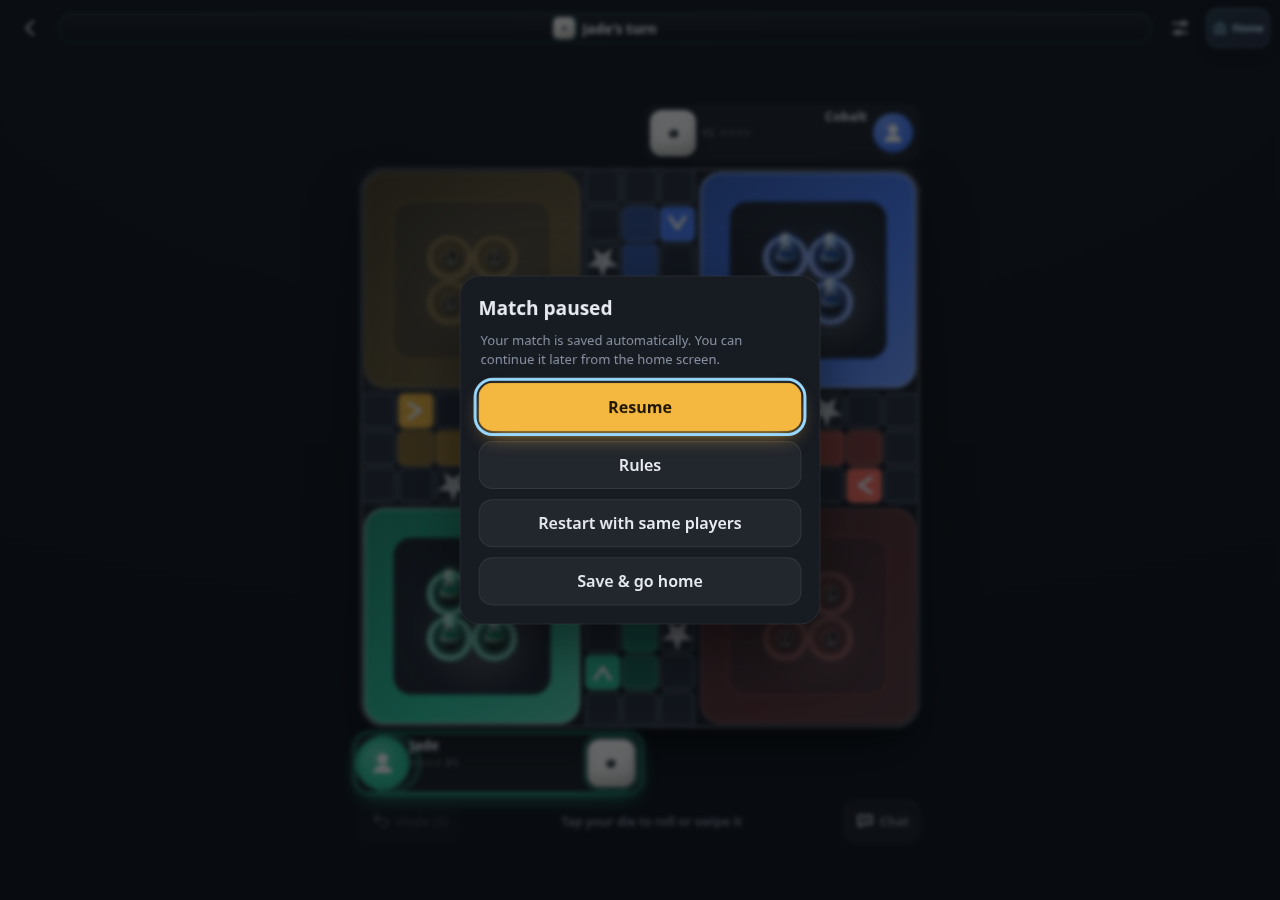
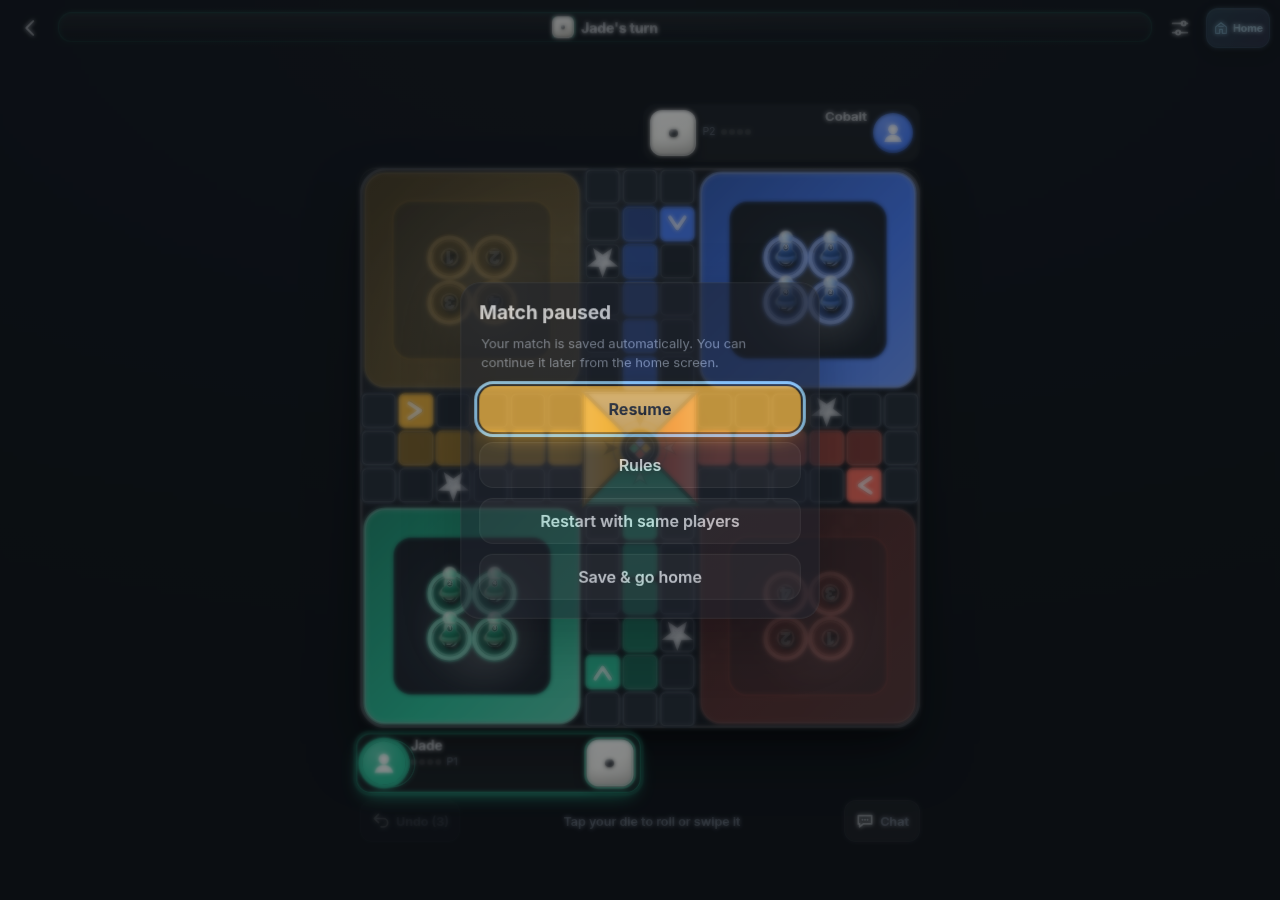
v1.8.7: rebuild #106 Android Back; skins.browser expects Diamond ON + balance-relative coins; Chrome fallback in remaining tests

Changed region(s): [[0.2812, 0.1244, 0.7188, 0.8711], [0.5938, 0.6533, 0.6562, 0.7156], [0.4375, 0.0, 0.4688, 0.0311]]

diff --git a/test/skins.browser.test.js b/test/skins.browser.test.js
@@ -49,7 +49,7 @@ function ok(condition, message) { assert.ok(condition, message); checks++; conso
     await seedSave('crossfour.save.v1', v1);
     let migrated = await page.evaluate(() => ({ status: window.__cf.loadStatus, save: window.__cf.save }));
     ok(migrated.status === 'migrated-v1' && migrated.save.coins >= 77 /* +level reward from #122 */ && migrated.save.board === 'linen' && migrated.save.dice === 'brass', 'v1 save migration retains coins and selected legacy skins');
-    ok(migrated.save.stats.streak === 0 && migrated.save.flags.diamondCollection === false && migrated.save.owned.boards.includes('linen') && migrated.save.owned.dice.includes('brass'), 'v1 gains safe streak/event defaults without losing owned skins');
+    ok(migrated.save.stats.streak === 0 && migrated.save.flags.diamondCollection === true /* Diamond event ON for everyone (John, v1.8.7) */ && migrated.save.owned.boards.includes('linen') && migrated.save.owned.dice.includes('brass'), 'v1 gains safe streak/event defaults without losing owned skins');
 
     const legacyV2 = await page.evaluate(() => {
       const s = JSON.parse(JSON.stringify(window.__cf.save));
@@ -59,7 +59,7 @@ function ok(condition, message) { assert.ok(condition, message); checks++; conso
     await seedSave('crossfour.save.v2', legacyV2);
     migrated = await page.evaluate(() => ({ status: window.__cf.loadStatus, save: window.__cf.save }));
     ok(migrated.status === 'migrated-v2' && migrated.save.coins === 321 && migrated.save.board === 'walnut' && migrated.save.dice === 'frost', 'v2 save migration retains progression and selected legacy skins');
-    ok(migrated.save.stats.streak === 0 && migrated.save.flags.diamondCollection === false, 'v2 receives backward-compatible achievement and event defaults');
+    ok(migrated.save.stats.streak === 0 && migrated.save.flags.diamondCollection === true /* Diamond event ON for everyone (John, v1.8.7) */, 'v2 receives backward-compatible achievement and event defaults');
 
     const legacyV3 = await page.evaluate(() => {
       const s = JSON.parse(JSON.stringify(window.__cf.save));
@@ -74,12 +74,12 @@ function ok(condition, message) { assert.ok(condition, message); checks++; conso
     await reload();
     migrated = await page.evaluate(() => ({ status: window.__cf.loadStatus, save: window.__cf.save }));
     ok(migrated.status === 'loaded' && migrated.save.coins === 432 && migrated.save.board === 'aurora' && migrated.save.dice === 'ember', 'old v3 primary snapshot is accepted and keeps its selected IDs');
-    ok(migrated.save.stats.streak === 0 && migrated.save.flags.diamondCollection === false, 'old v3 primary/checkpoint are normalized without schema loss');
+    ok(migrated.save.stats.streak === 0 && migrated.save.flags.diamondCollection === true /* Diamond event ON for everyone (John, v1.8.7) */, 'old v3 primary/checkpoint are normalized without schema loss');
 
     // Start shop tests from a clean local-only profile.
     await page.evaluate(() => { localStorage.clear(); localStorage.setItem('crossfour.tutorial.v1', '1'); }); await reload();
     await page.click('#btn-skins'); await page.waitForSelector('#skins:not(.hidden) #skin-grid [data-id="graphite"]');
-    ok(await page.$$eval('#skin-grid [data-id]', nodes => nodes.length) === 20, 'real Boards tab renders all 20 boards');
+    ok(await page.$$eval('#skin-grid [data-id]', nodes => nodes.length) === await page.evaluate(() => window.SKINS.BOARDS.length), 'real Boards tab renders every board');
     ok(await page.evaluate(() => {
       const box = document.getElementById('skins').querySelector('.panel');
       const grid = document.getElementById('skin-grid');
@@ -91,7 +91,7 @@ function ok(condition, message) { assert.ok(condition, message); checks++; conso
     const galaxyCard = await page.$('[data-id="galaxy"]');
     await galaxyCard.screenshot({ path: path.join(OUT, 'skin-preview-galaxy.png') });
     ok(await page.$eval('[data-id="galaxy"] canvas', canvas => canvas.width > 0 && canvas.getAttribute('aria-label') === 'Galaxy board preview'), 'Galaxy board preview draws the actual board renderer');
-    ok(await page.$eval('[data-id="diamond"] button', button => button.disabled && /future event/i.test(button.textContent)), 'Diamond board remains locked without an event flag');
+    ok(await page.$eval('[data-id="diamond"] button', button => !/future event/i.test(button.textContent)), 'Diamond board is available (Diamond event ON for everyone)');
     ok(await page.$eval('[data-id="champion"] small', note => /50 lifetime wins/i.test(note.textContent)), 'Champion card shows its real 50-win requirement');
     ok(await page.$eval('[data-id="streak-master"] small', note => /10 consecutive wins/i.test(note.textContent)), 'Streak Master card shows its real streak requirement');
 
@@ -107,23 +107,24 @@ function ok(condition, message) { assert.ok(condition, message); checks++; conso
     ok(failedPurchase.coins === beforeFail.coins && failedPurchase.board === beforeFail.board && !failedPurchase.owned.includes('ocean') && failedPurchase.warning, 'storage failure rolls back coins, ownership and selection without a false success');
     await page.evaluate(() => { Storage.prototype.setItem = window.__skinOriginalSetItem; window.__cf.persist(); document.querySelector('#skin-tabs [data-tab="boards"]').click(); });
 
+    const c0 = await page.evaluate(() => (window.__c0 = window.__cf.save.coins)); // v1.8.7: balance-relative (level rewards from #122 change the start balance)
     await page.$eval('[data-id="galaxy"] button', button => button.click());
     let purchased = await page.evaluate(() => {
       const c = window.__cf, snapshot = JSON.parse(localStorage.getItem('crossfour.save.v3'));
       return { coins: c.save.coins, board: c.save.board, owned: c.save.owned.boards.filter(id => id === 'galaxy').length,
         diskCoins: snapshot.payload.coins, diskBoard: snapshot.payload.board, diskOwned: snapshot.payload.owned.boards.includes('galaxy'), bg: getComputedStyle(document.documentElement).getPropertyValue('--bg').trim() };
     });
-    ok(purchased.coins === 1900 && purchased.board === 'galaxy' && purchased.owned === 1, 'Galaxy purchase deducts exactly 600 coins, owns once and equips');
-    ok(purchased.diskCoins === 1900 && purchased.diskBoard === 'galaxy' && purchased.diskOwned && purchased.bg === '#0b0b1d', 'Galaxy ownership, selection and palette persist locally and apply to UI');
+    ok(purchased.coins === c0 - 600 && purchased.board === 'galaxy' && purchased.owned === 1, 'Galaxy purchase deducts exactly 600 coins, owns once and equips');
+    ok(purchased.diskCoins === c0 - 600 && purchased.diskBoard === 'galaxy' && purchased.diskOwned && purchased.bg === '#0b0b1d', 'Galaxy ownership, selection and palette persist locally and apply to UI');
     await page.$eval('[data-id="linen"] button', button => button.click());
     await page.$eval('[data-id="galaxy"] button', button => button.click());
-    ok(await page.evaluate(() => window.__cf.save.coins === 1900 && window.__cf.save.owned.boards.filter(id => id === 'galaxy').length === 1), 're-equipping an owned Board skin never charges a second time');
+    ok(await page.evaluate(c0 => window.__cf.save.coins === c0 - 600 && window.__cf.save.owned.boards.filter(id => id === 'galaxy').length === 1, c0), 're-equipping an owned Board skin never charges a second time');
     await reload();
-    ok(await page.evaluate(() => window.__cf.save.board === 'galaxy' && window.__cf.save.coins === 1900 && window.__cf.save.owned.boards.includes('galaxy')), 'equipped Board skin and coin balance survive reload');
+    ok(await page.evaluate(c0 => window.__cf.save.board === 'galaxy' && window.__cf.save.coins === c0 - 600 && window.__cf.save.owned.boards.includes('galaxy'), c0), 'equipped Board skin and coin balance survive reload');
     await page.click('#btn-skins'); await page.waitForSelector('[data-id="galaxy"]');
 
     await page.click('#skin-tabs button[data-tab="dice"]');
-    ok(await page.$$eval('#skin-grid [data-id]', nodes => nodes.length) === 17, 'real Dice tab renders all 17 dice styles');
+    ok(await page.$$eval('#skin-grid [data-id]', nodes => nodes.length) === await page.evaluate(() => window.SKINS.DICE.length), 'real Dice tab renders every dice style');
     ok(await page.evaluate(() => {
       const box = document.getElementById('skins').querySelector('.panel'), grid = document.getElementById('skin-grid');
       return document.documentElement.scrollWidth <= innerWidth && box.scrollWidth <= box.clientWidth + 1 && grid.scrollWidth <= grid.clientWidth + 1;
@@ -134,14 +135,14 @@ function ok(condition, message) { assert.ok(condition, message); checks++; conso
     const rainbowDice = await page.$('[data-id="rainbow-dice"] .dprev');
     await rainbowDice.screenshot({ path: path.join(OUT, 'skin-preview-rainbow-dice.png') });
     ok(await page.$eval('[data-id="ivory"] button', button => /In use/i.test(button.textContent)), 'original Ivory dice remain the unchanged starter selection');
-    ok(await page.$eval('[data-id="diamond-dice"] button', button => button.disabled && /future event/i.test(button.textContent)), 'Diamond Dice remain event-locked without a real flag');
+    ok(await page.$eval('[data-id="diamond-dice"] button', button => !/future event/i.test(button.textContent)), 'Diamond Dice are available (Diamond event ON for everyone)');
     ok(await page.$eval('[data-id="rainbow-dice"] .dprev', preview => preview.style.backgroundImage.includes('linear-gradient')), 'Rainbow Dice preview renders its distinct multi-colour finish');
     await page.$eval('[data-id="classic-white"] button', button => button.click());
-    ok(await page.evaluate(() => window.__cf.save.dice === 'classic-white' && window.__cf.save.coins === 1900 && window.__cf.save.owned.dice.includes('classic-white')), 'Classic White is a free unlock while Ivory and coin balance remain unchanged');
+    ok(await page.evaluate(c0 => window.__cf.save.dice === 'classic-white' && window.__cf.save.coins === c0 - 600 && window.__cf.save.owned.dice.includes('classic-white'), c0), 'Classic White is a free unlock while Ivory and coin balance remain unchanged');
     await page.$eval('[data-id="graphite-dice"] button', button => button.click());
-    ok(await page.evaluate(() => window.__cf.save.dice === 'graphite-dice' && window.__cf.save.coins === 1750), 'Graphite Dice costs exactly 150 coins and equips');
+    ok(await page.evaluate(c0 => window.__cf.save.dice === 'graphite-dice' && window.__cf.save.coins === c0 - 750, c0), 'Graphite Dice costs exactly 150 coins and equips');
     await page.reload({ waitUntil: 'networkidle0' }); await sleep(120);
-    ok(await page.evaluate(() => window.__cf.save.dice === 'graphite-dice' && window.__cf.save.coins === 1750), 'equipped Dice style and balance survive reload');
+    ok(await page.evaluate(c0 => window.__cf.save.dice === 'graphite-dice' && window.__cf.save.coins === c0 - 750, c0), 'equipped Dice style and balance survive reload');
 
     // One synthetic, local match settlement checks the actual game-to-achievement integration.
     await page.evaluate(() => {

diff --git a/test/native-back-button.browser.test.js b/test/native-back-button.browser.test.js
@@ -1,0 +1,159 @@
+// Android system-back navigation regression. The Capacitor App plugin is mocked so this
+// runs without a device, account, or live service; any save stays in the isolated browser.
+const http = require('node:http');
+const fs = require('node:fs');
+const path = require('node:path');
+const puppeteer = require(process.env.PUPPETEER || 'puppeteer-core');
+
+const webRoot = path.resolve(__dirname, '..', 'www');
+const mime = {
+  '.css': 'text/css; charset=utf-8',
+  '.html': 'text/html; charset=utf-8',
+  '.ico': 'image/x-icon',
+  '.js': 'text/javascript; charset=utf-8',
+  '.json': 'application/json; charset=utf-8',
+  '.png': 'image/png',
+  '.svg': 'image/svg+xml',
+  '.webmanifest': 'application/manifest+json; charset=utf-8'
+};
+let checks = 0;
+function ok(value, message) {
+  if (!value) throw new Error('FAILED: ' + message);
+  checks++;
+  console.log('  ok -', message);
+}
+const sleep = ms => new Promise(resolve => setTimeout(resolve, ms));
+
+async function main() {
+  const server = http.createServer((req, res) => {
+    let pathname;
+    try { pathname = decodeURIComponent(new URL(req.url, 'http://127.0.0.1').pathname); }
+    catch (e) { res.writeHead(400).end(); return; }
+    if (pathname === '/') pathname = '/index.html';
+    const file = path.resolve(webRoot, '.' + pathname);
+    if (file !== webRoot && !file.startsWith(webRoot + path.sep)) { res.writeHead(403).end(); return; }
+    fs.readFile(file, (error, data) => {
+      if (error) { res.writeHead(404).end(); return; }
+      res.writeHead(200, { 'Content-Type': mime[path.extname(file)] || 'application/octet-stream', 'Cache-Control': 'no-store' });
+      res.end(data);
+    });
+  });
+  await new Promise((resolve, reject) => {
+    server.once('error', reject);
+    server.listen(0, '127.0.0.1', resolve);
+  });
+  const address = server.address();
+  const origin = 'http://127.0.0.1:' + address.port;
+  let browser;
+  const blockedExternalRequests = [];
+  const completedExternalRequests = [];
+  const pageErrors = [];
+  try {
+    browser = await puppeteer.launch({
+      executablePath: process.env.CHROME || ['/usr/bin/chromium', '/usr/bin/google-chrome', '/usr/bin/chromium-browser'].find(p => require('fs').existsSync(p)),
+      headless: 'new',
+      args: ['--no-sandbox', '--disable-dev-shm-usage']
+    });
+    const page = await browser.newPage();
+    await page.setViewport({ width: 390, height: 844, deviceScaleFactor: 1 });
+    await page.setRequestInterception(true);
+    await page.evaluateOnNewDocument(() => {
+      window.__nativeBackEvents = [];
+      window.__nativeBackExitCount = 0;
+      window.__nativeBackListener = null;
+      window.Capacitor = { Plugins: { App: {
+        addListener(name, listener) {
+          window.__nativeBackEvents.push(name);
+          if (name === 'backButton') window.__nativeBackListener = listener;
+          return Promise.resolve({ remove() {} });
+        },
+        exitApp() { window.__nativeBackExitCount++; return Promise.resolve(); }
+      } } };
+    });
+    page.on('pageerror', error => pageErrors.push(error.message));
+    page.on('request', request => {
+      if (new URL(request.url()).origin !== origin) {
+        blockedExternalRequests.push(request.url());
+        request.abort().catch(() => {});
+      } else request.continue().catch(() => {});
+    });
+    page.on('requestfinished', request => {
+      if (new URL(request.url()).origin !== origin) completedExternalRequests.push(request.url());
+    });
+    await page.goto(origin + '/', { waitUntil: 'networkidle0' });
+    await page.evaluate(() => localStorage.setItem('crossfour.tutorial.v1', '1'));
+    await page.waitForFunction(() => typeof window.__nativeBackListener === 'function');
+    const back = async canGoBack => {
+      await page.evaluate(value => window.__nativeBackListener({ canGoBack: !!value }), canGoBack);
+      await sleep(100);
+    };
+    const visible = selector => page.$eval(selector, element => !element.classList.contains('hidden'));
+    const exitCount = () => page.evaluate(() => window.__nativeBackExitCount);
+
+    ok((await page.evaluate(() => window.__nativeBackEvents.join(','))) === 'backButton', 'registers exactly one Capacitor Android back-button listener');
+    await page.click('#btn-howto-home');
+    ok(await page.$eval('#btn-howto-home', element => element.getAttribute('aria-expanded') === 'true'), 'home How to Play panel opens before back handling');
+    await back(false);
+    ok(await page.$eval('#btn-howto-home', element => element.getAttribute('aria-expanded') === 'false') && await exitCount() === 0, 'back collapses the expanded home guide instead of exiting');
+
+    await page.click('#btn-vs-ai');
+    ok(await visible('#setup'), 'setup screen opens');
+    await back(false);
+    ok(await visible('#home') && !(await visible('#setup')), 'back from setup returns home');
+
+    await page.click('#btn-stats');
+    ok(await visible('#stats'), 'statistics overlay opens');
+    await back(false);
+    ok(!(await visible('#stats')) && await visible('#home'), 'back closes the current dismissible overlay');
+
+    await page.click('#btn-online');
+    ok(await visible('#online'), 'Online screen opens without connecting to a service');
+    await back(false);
+    ok(await visible('#home') && !(await visible('#online')), 'back from Online returns home without creating a room');
+
+    await page.click('#btn-vs-ai');
+    await page.click('#btn-start');
+    await page.waitForFunction(() => window.__cf && window.__cf.game && !document.getElementById('game').classList.contains('hidden'));
+    ok(await visible('#game'), 'offline match starts');
+    await back(false);
+    ok(await visible('#menu') && await visible('#game') && await page.evaluate(() => !!window.__cf.game), 'back pauses the offline match through its existing save-and-pause menu');
+    ok(await page.evaluate(() => {
+      const snapshot = JSON.parse(localStorage.getItem('crossfour.save.v3'));
+      return !!snapshot && !!snapshot.payload.game;
+    }), 'pausing preserves the in-progress offline save');
+    await back(false);
+    ok(!(await visible('#menu')) && await visible('#game'), 'back from the pause menu resumes the same match');
+
+    await page.click('#btn-exit-match');
+    ok(await visible('#confirm'), 'exit confirmation is shown before leaving the match');
+    await back(false);
+    ok(!(await visible('#confirm')) && await visible('#game') && await page.evaluate(() => !!window.__cf.game && !window.__cf.paused), 'back cancels a destructive exit confirmation and resumes the same match');
+    await back(false);
+    ok(await visible('#menu') && await visible('#game'), 'the resumed match can still be safely paused again');
+    await back(false);
+    ok(await visible('#game') && !(await visible('#menu')), 'back from the pause menu resumes the same match');
+
+    await page.click('#btn-home');
+    await page.click('#btn-m-home');
+    ok(await visible('#home'), 'existing save-and-go-home control returns to root');
+    await page.evaluate(() => history.pushState({ nativeBackTest: true }, '', '#native-back-test'));
+    await back(true);
+    await page.waitForFunction(() => location.hash === '');
+    ok(await exitCount() === 0, 'uses browser history when Capacitor reports a history entry');
+    await back(false);
+    ok(await exitCount() === 1, 'exits the native app only from the root screen');
+
+    ok(blockedExternalRequests.every(url => url.startsWith('https://cdn.jsdelivr.net/npm/@supabase/')), 'the optional Supabase SDK download is blocked by the local test');
+    ok(completedExternalRequests.length === 0, 'no external request reaches a live service');
+    ok(pageErrors.length === 0, 'no browser runtime errors occur');
+    console.log('\n' + checks + ' native-back checks passed');
+  } finally {
+    if (browser) await browser.close();
+    await new Promise(resolve => server.close(resolve));
+  }
+}
+
+main().catch(error => {
+  console.error(error.stack || error);
+  process.exitCode = 1;
+});

diff --git a/www/js/game.js b/www/js/game.js
@@ -3229,6 +3229,47 @@
     $('chal-2x').addEventListener('click', function () { dailyAd('challenge'); });
     updateDailyDot();
   }
+  // v1.8.7: rebuilt from PR #106 (Android system Back)
+  function handleNativeBack(event) {
+    var claimModal = $('community-claim-modal');
+    if (claimModal && !claimModal.classList.contains('hidden')) { $('community-claim-close').click(); return; }
+    if (isOpen('confirm')) { $('confirm-no').click(); return; }
+    if (isOpen('tutorial-intro')) { $('tutorial-intro-skip').click(); return; }
+    if (isOpen('tutorial-coach')) { $('tutorial-skip').click(); return; }
+
+    var closeButtons = document.querySelectorAll('.overlay:not(.hidden) [data-close]');
+    if (closeButtons.length) { closeButtons[closeButtons.length - 1].click(); return; }
+    if (isOpen('menu')) { $('btn-m-resume').click(); return; }
+    if (isOpen('result')) { $('btn-r-home').click(); return; }
+    if (isOpen('chat')) { $('btn-chat').click(); return; }
+
+    var howto = $('btn-howto-home');
+    if (howto && howto.getAttribute('aria-expanded') === 'true') { howto.click(); return; }
+    if (!$('game').classList.contains('hidden')) { $('btn-home').click(); return; }
+    if (!$('setup').classList.contains('hidden')) { $('btn-setup-back').click(); return; }
+    if (!$('online').classList.contains('hidden')) { $('online-back').click(); return; }
+    if (!$('community').classList.contains('hidden')) { $('community-back').click(); return; }
+
+    if (event && event.canGoBack) { window.history.back(); return; }
+    var app = window.Capacitor && window.Capacitor.Plugins && window.Capacitor.Plugins.App;
+    if (app && typeof app.exitApp === 'function') {
+      try {
+        var exiting = app.exitApp();
+        if (exiting && typeof exiting.catch === 'function') exiting.catch(function () {});
+      } catch (e) {}
+    }
+  }
+
+  function installNativeBackButton() {
+    var app = window.Capacitor && window.Capacitor.Plugins && window.Capacitor.Plugins.App;
+    if (!app || typeof app.addListener !== 'function') return;
+    try {
+      var listener = app.addListener('backButton', handleNativeBack);
+      if (listener && typeof listener.catch === 'function') listener.catch(function () {});
+    } catch (e) {}
+  }
+  installNativeBackButton();
+
   window.__cf = {
     get game() { return G; }, get save() { return save; }, get loadStatus() { return loadResult.status; }, logic: L, gate: gate,
     native: native, haptic: haptic,

diff --git a/test/tutorial.browser.test.js b/test/tutorial.browser.test.js
@@ -11,7 +11,7 @@ function ok(condition, label) {
 }
 
 (async () => {
-  const browser = await puppeteer.launch({ executablePath: process.env.CHROME || '/usr/bin/chromium', headless: 'new', args: ['--no-sandbox'] });
+  const browser = await puppeteer.launch({ executablePath: process.env.CHROME || ['/usr/bin/chromium', '/usr/bin/google-chrome', '/usr/bin/chromium-browser'].find(p => require('fs').existsSync(p)), headless: 'new', args: ['--no-sandbox'] });
   try {
     const page = await browser.newPage();
     await page.emulate({ viewport: { width: 360, height: 740, deviceScaleFactor: 1, isMobile: true, hasTouch: true }, userAgent: 'Mozilla/5.0 (Linux; Android 14; Pixel 8) AppleWebKit/537.36 Chrome/140 Mobile Safari/537.36' });

diff --git a/test/howto-reduced-motion.browser.test.js b/test/howto-reduced-motion.browser.test.js
@@ -34,7 +34,7 @@ function startLocalServer() {
   const local = await startLocalServer();
   let browser = null;
   try {
-    browser = await puppeteer.launch({ executablePath: process.env.CHROME || '/usr/bin/chromium', headless: 'new', args: ['--no-sandbox'] });
+    browser = await puppeteer.launch({ executablePath: process.env.CHROME || ['/usr/bin/chromium', '/usr/bin/google-chrome', '/usr/bin/chromium-browser'].find(p => require('fs').existsSync(p)), headless: 'new', args: ['--no-sandbox'] });
     const page = await browser.newPage();
     await page.setViewport({ width: 390, height: 844, isMobile: true, hasTouch: true });
     const errors = [];

diff --git a/test/setup-layout.browser.test.js b/test/setup-layout.browser.test.js
@@ -17,7 +17,7 @@ function ok(condition, message) {
   console.log('  ok -', message);
 }
 (async () => {
-  const browser = await puppeteer.launch({ executablePath: process.env.CHROME || '/usr/bin/chromium', headless: 'new', args: ['--no-sandbox'] });
+  const browser = await puppeteer.launch({ executablePath: process.env.CHROME || ['/usr/bin/chromium', '/usr/bin/google-chrome', '/usr/bin/chromium-browser'].find(p => require('fs').existsSync(p)), headless: 'new', args: ['--no-sandbox'] });
   try {
     const errors = [];
     let homeCheckDone = false;

diff --git a/test/community.test.js b/test/community.test.js
@@ -3,7 +3,7 @@
 const puppeteer = require(process.env.PUPPETEER || 'puppeteer-core');
 const URL = (process.argv[2] || 'http://localhost:8781/').replace(/\/?$/, '/');
 const URLCtor = require('node:url').URL;
-const CHROME = process.env.CHROME || '/usr/bin/chromium';
+const CHROME = process.env.CHROME || ['/usr/bin/chromium', '/usr/bin/google-chrome', '/usr/bin/chromium-browser'].find(p => require('fs').existsSync(p));
 let checks = 0;
 function ok(condition, message) {
   if (!condition) throw new Error('FAILED: ' + message);

diff --git a/test/pause-menu-accessibility.browser.test.js b/test/pause-menu-accessibility.browser.test.js
@@ -40,7 +40,7 @@ function startLocalServer() {
 async function main() {
   const local = await startLocalServer();
   const browser = await puppeteer.launch({
-    executablePath: process.env.CHROME || '/usr/bin/chromium',
+    executablePath: process.env.CHROME || ['/usr/bin/chromium', '/usr/bin/google-chrome', '/usr/bin/chromium-browser'].find(p => require('fs').existsSync(p)),
     headless: 'new',
     args: ['--no-sandbox']
   });

diff --git a/test/home-mode-cards.browser.test.js b/test/home-mode-cards.browser.test.js
@@ -12,7 +12,7 @@ function ok(condition, message) {
 
 (async () => {
   const browser = await puppeteer.launch({
-    executablePath: process.env.CHROME || '/usr/bin/chromium',
+    executablePath: process.env.CHROME || ['/usr/bin/chromium', '/usr/bin/google-chrome', '/usr/bin/chromium-browser'].find(p => require('fs').existsSync(p)),
     headless: 'new',
     args: ['--no-sandbox']
   });

diff --git a/test/spotlight.test.js b/test/spotlight.test.js
@@ -17,7 +17,7 @@ function ok(condition, message) {
 
 (async () => {
   const browser = await puppeteer.launch({
-    executablePath: process.env.CHROME || '/usr/bin/chromium',
+    executablePath: process.env.CHROME || ['/usr/bin/chromium', '/usr/bin/google-chrome', '/usr/bin/chromium-browser'].find(p => require('fs').existsSync(p)),
     headless: 'new',
     args: ['--no-sandbox']
   });

diff --git a/test/turn-controls.browser.test.js b/test/turn-controls.browser.test.js
@@ -12,7 +12,7 @@ function ok(condition, message) {
 
 (async () => {
   const browser = await puppeteer.launch({
-    executablePath: process.env.CHROME || '/usr/bin/chromium',
+    executablePath: process.env.CHROME || ['/usr/bin/chromium', '/usr/bin/google-chrome', '/usr/bin/chromium-browser'].find(p => require('fs').existsSync(p)),
     headless: 'new',
     args: ['--no-sandbox']
   });
